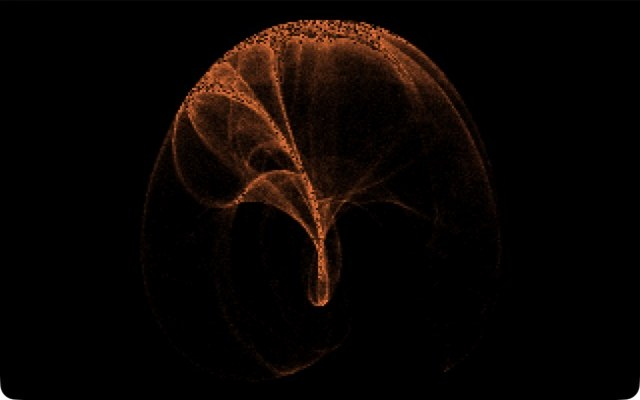
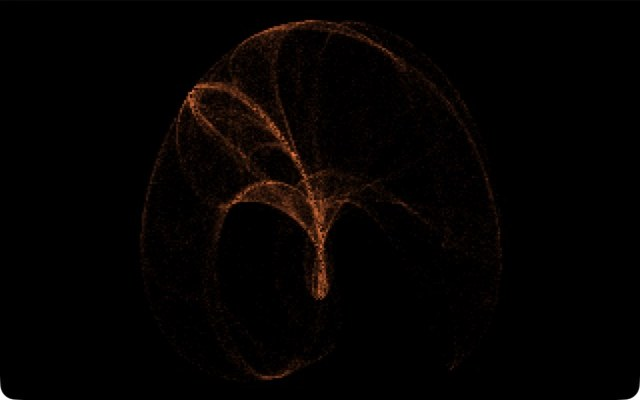
Shrink GALAXY/CLIFF by 13 bytes, morph two parameters, retune brightness

diff --git a/README.md b/README.md
@@ -11,8 +11,8 @@ real DOSBox for the screenshots and are checked by an emulated-CPU test suite.
 
 | Program | Size | What it is |
 |---|---|---|
-| `GALAXY.COM` | 208 B | de Jong attractor, 6000 orbit points per frame, accumulated into a fading glow buffer. One parameter drifts, so the shape slowly morphs. The orbit also tunes the PC speaker. |
-| `CLIFF.COM` | 213 B | The same engine with Clifford-attractor equations and parameters: two wings and a ring of caustics. |
+| `GALAXY.COM` | 205 B | de Jong attractor, 6000 orbit points per frame, accumulated into a fading glow buffer. Two parameters drift, so the shape slowly morphs. The orbit also tunes the PC speaker. |
+| `CLIFF.COM` | 210 B | The same engine with Clifford-attractor equations and parameters: two wings and a ring of caustics. |
 | `SELFTEX.COM` | 77 B | Pixel = a byte of the program's own machine code, indexed by `x*y/64 + time`. The hyperbolic bands are the code's byte pattern. |
 
 ## Run it
@@ -26,7 +26,7 @@ real DOSBox for the screenshots and are checked by an emulated-CPU test suite.
 any emulator or machine from the 486DX on is fine. Use `cycles=max` (shipped in `DOSBOX.CONF`).
 The speaker tone is generated, but I have not listened to it, so its sound is untested by ear.
 
-## How the attractor fits in 208 bytes
+## How the attractor fits in 205 bytes
 
 - The palette is streamed to the DAC (port 3C9h) with a `shr` chain: one loop, no table.
 - Each orbit step is `x' = sin(a*y) - cos(b*x)`, `y' = sin(c*x) - cos(d*y)` with the four
@@ -34,7 +34,7 @@ The speaker tone is generated, but I have not listened to it, so its sound is un
 - `fistp` turns the point into a pixel offset (`y*320 + x` with `imul ax,ax,320`) and the pixel
   gets `add byte [es:di], 4`, so hot regions glow.
 - After each frame the whole 64 KB segment is faded with `v -= v>>4; v -= 1` in one `stosb` loop
-  that wraps `DI` around the segment, which also serves as the loop counter.
+  run by `loop` with CX already 0, so 65536 passes cover the segment exactly once.
 - Scratch words for the pixel position live just past the end of the file, inside the segment.
 
 ## Ideas from the 256-byte brief: what was tried
@@ -43,7 +43,7 @@ The speaker tone is generated, but I have not listened to it, so its sound is un
 |---|---|
 | Dynamical systems / attractors on the FPU | **Works** (GALAXY, CLIFF). |
 | Accumulation buffer with fade (feedback) | **Works**, used by both attractors. |
-| Parameter morphing | **Works**: one constant drifts per frame. |
+| Parameter morphing | **Works**: two constants drift per frame. |
 | Orbit-driven PIT sound | Implemented; unheard. |
 | Code as texture / lookup table | **Works** (SELFTEX). Verified in DOSBox. |
 | Neighbour-averaging feedback ("nebula") | Failed: averaging halves the energy, the screen goes black. Dropped. |

diff --git a/CHANGELOG.md b/CHANGELOG.md
@@ -1,5 +1,9 @@
 # Changelog
 
+## [1.1.0]
+- Shrunk: GALAXY 208 -> 205 bytes, CLIFF 213 -> 210 bytes (`loop` for both loops, one folded pixel-address `imul`/`add`, `xchg ax,di`, plain `mov al,3` for the speaker).
+- Improved: two parameters morph instead of one; the fade now covers the whole segment evenly (brightness retuned).
+
 ## [1.0.0]
 - GALAXY (208 B): de Jong attractor with glow accumulation, morphing and orbit-driven speaker tone.
 - CLIFF (213 B): Clifford-attractor variant of the same engine.
